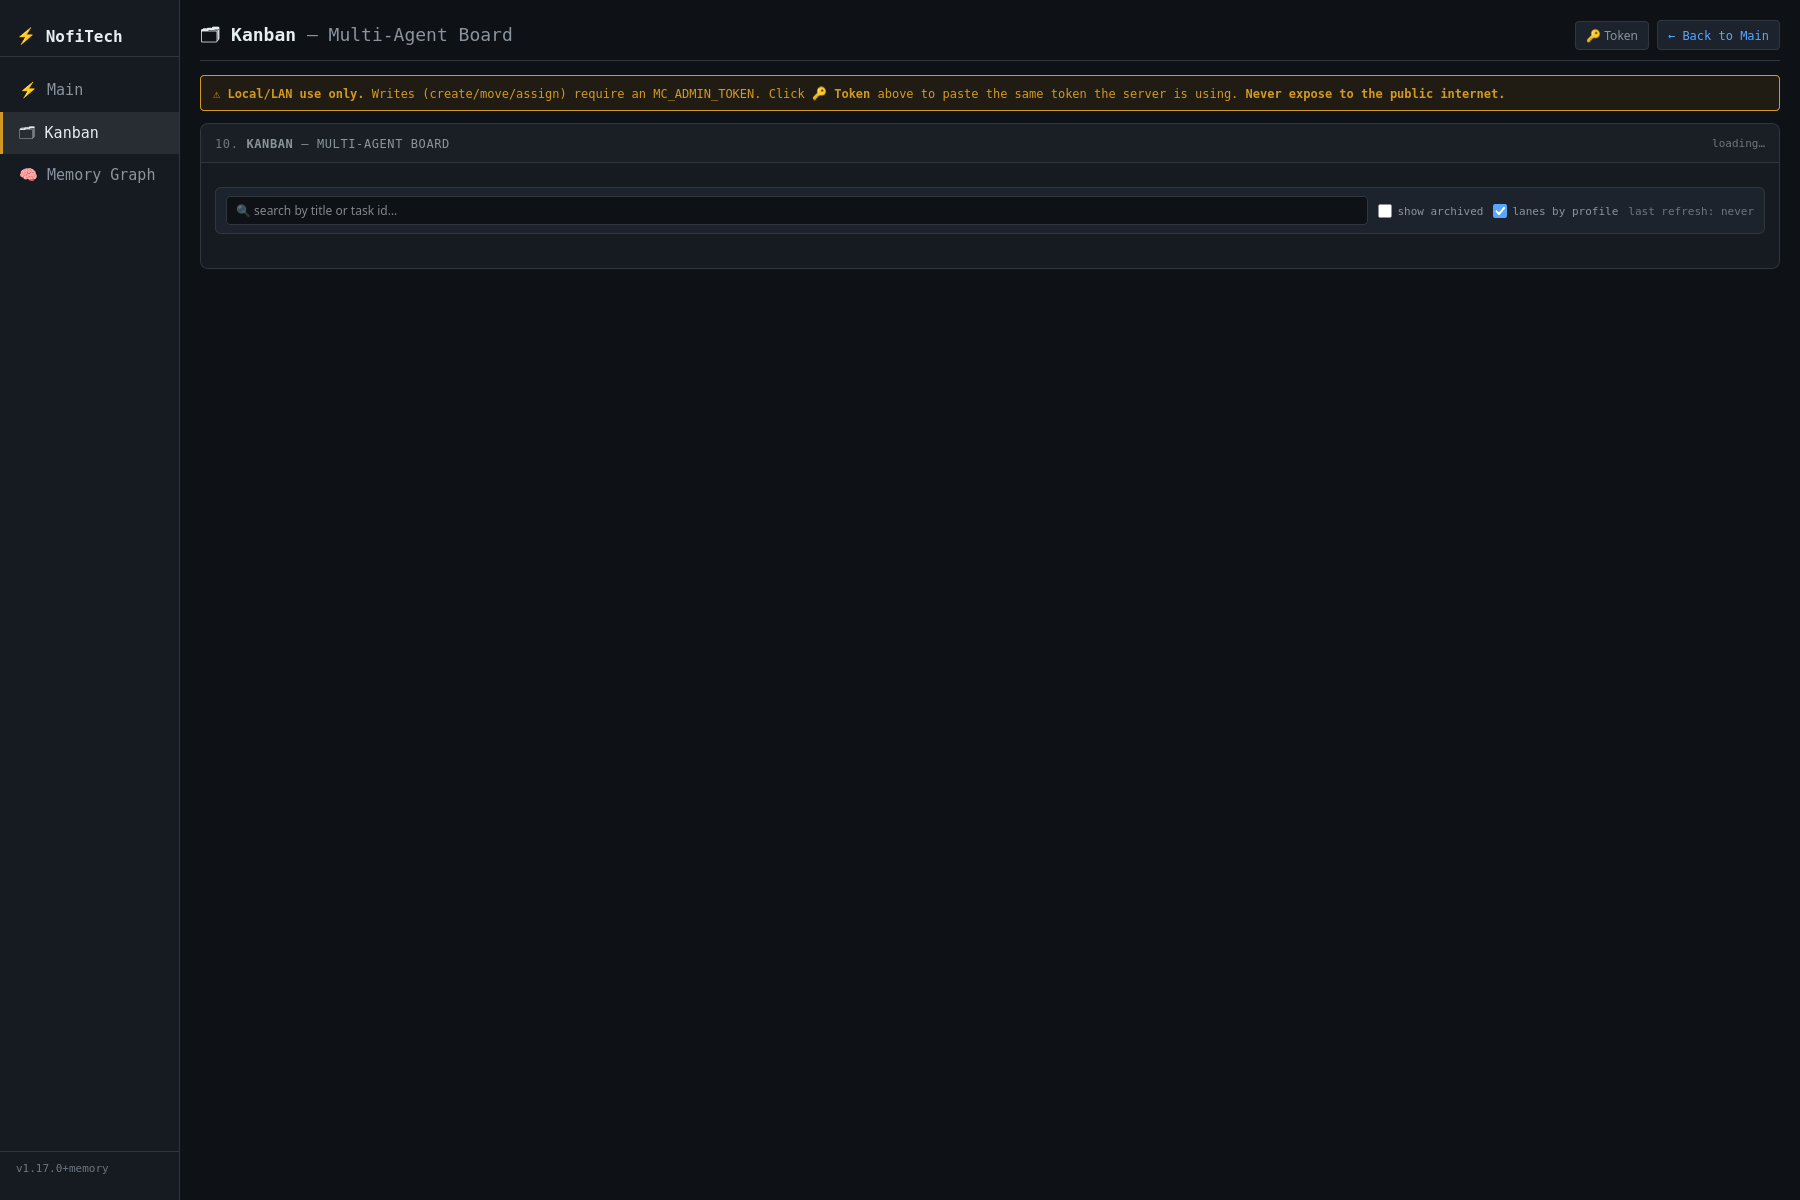
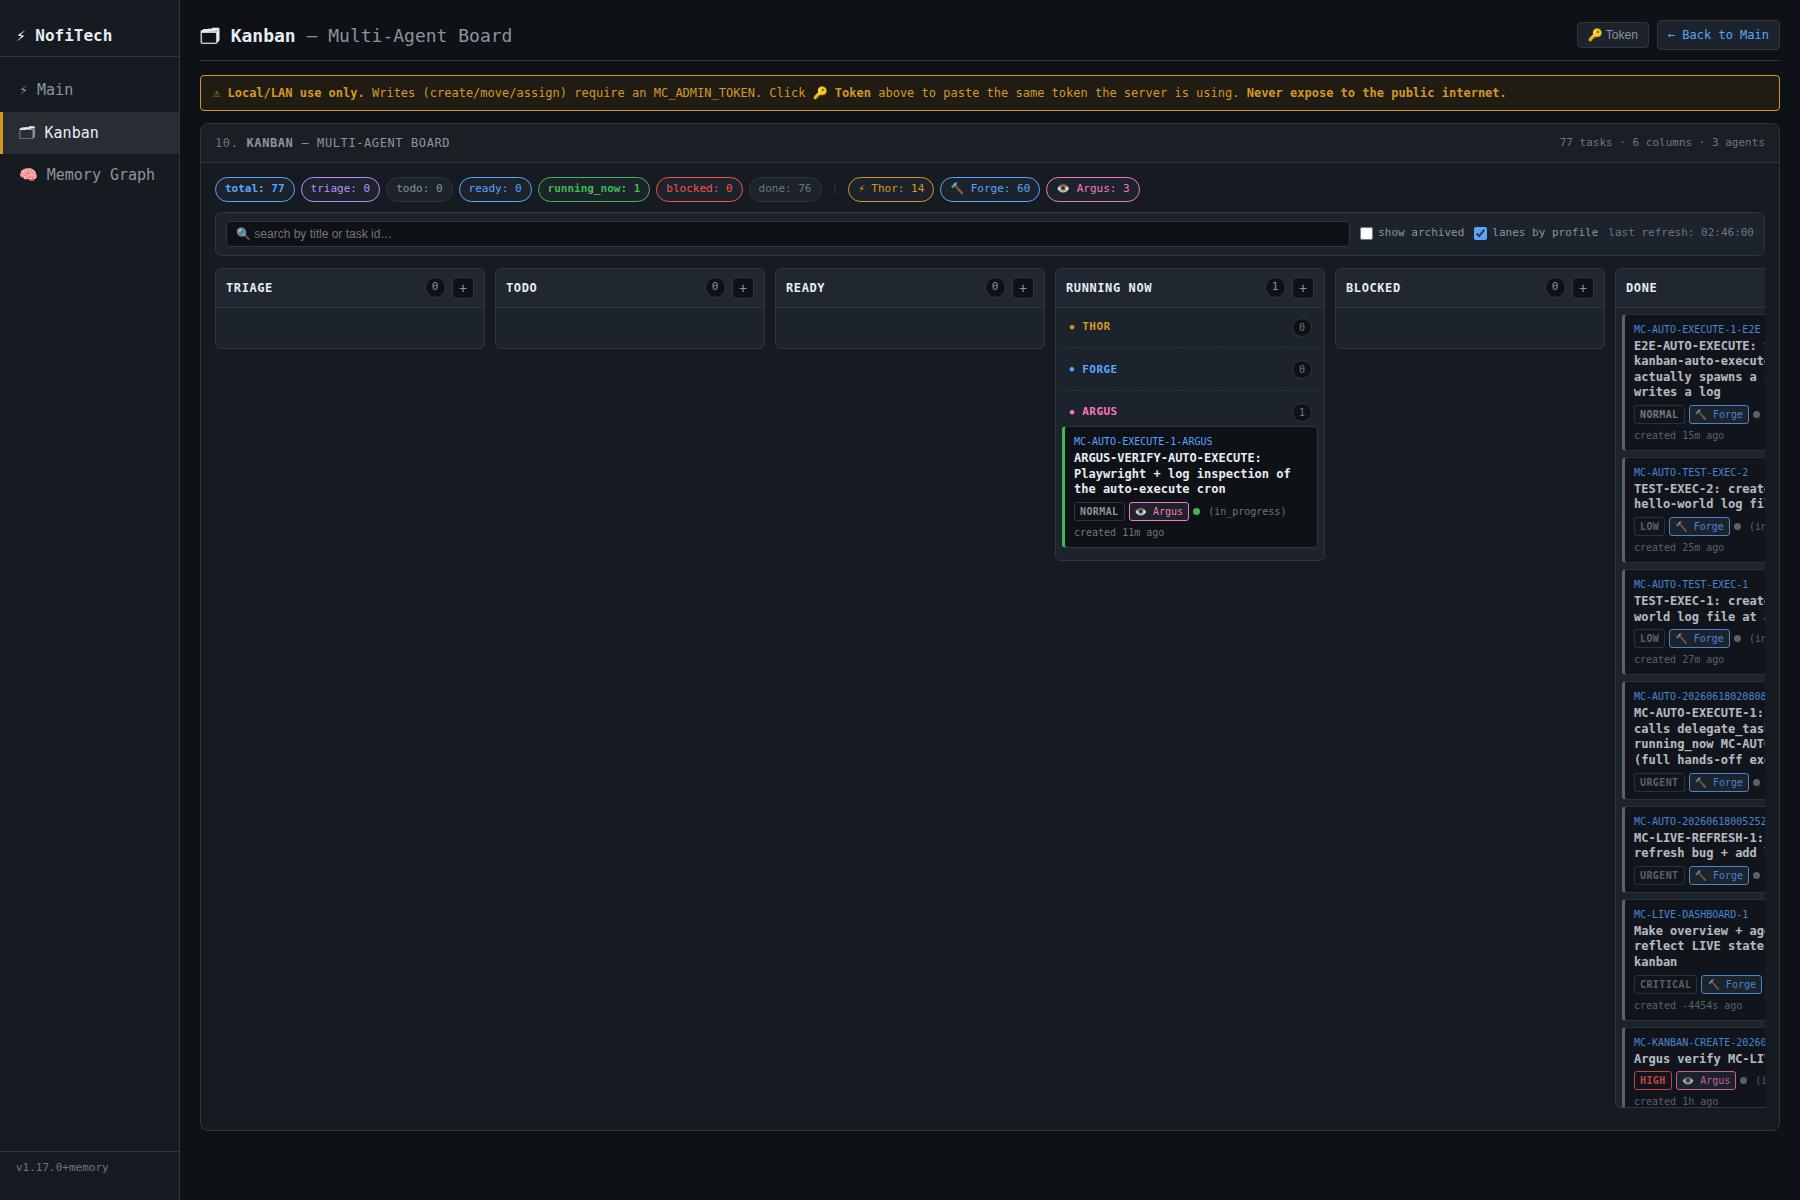
Auto-sync from cron: 2026-06-17T23:43:56Z
Triggered by 6h cron (github-push-nofitech).
See 00_company_os/cron-output/ for the full run log.

diff --git a/01_projects/mission-control/tasks/MC-AUTO-20260618020808-E67940.md b/01_projects/mission-control/tasks/MC-AUTO-20260618020808-E67940.md
@@ -114,6 +114,118 @@ The script uses `hermes delegate <agent> "<prompt>"` to spawn the work. Read the
 - Assignee: forge
 - NOFI said "build it NOW, i dont care" — they care about: card in kanban → work happens. They explicitly do NOT care about: model cost (they accepted it), safety rails (Thor added them anyway), naming conventions, anything else.
 
+## Verification output (filled by forge on completion)
+
+### Files in place
+- [x] `~/.hermes/scripts/kanban-auto-execute.sh` exists (12570 bytes), mode `-rwx--x--x`, passes `bash -n`
+- [x] Repo copy at `01_projects/mission-control/scripts/kanban-auto-execute.sh` exists, IDENTICAL (`diff -q` reports no difference)
+- [x] `01_projects/mission-control/scripts/test_auto_execute.sh` exists (9413 bytes), mode `-rwx--x--x`
+- [x] Hermes cron `kanban-auto-execute` registered: id `0ef074377dcf`, `[active]`, Schedule: `every 2m`, Next run continuously advancing (last: `2026-06-18T02:35:55.194297+04:00`, status: ok)
+
+### Bug fix applied during this run
+**`is_agent_running_task` pgrep filter** — the original filter
+```
+pgrep -af "hermes" | grep -F "$task_id" | grep -v -F "$$" | grep -v -F "kanban-auto-execute"
+```
+WRONGLY filtered out the subagent's own argv because the prompt embeds the
+literal string "kanban-auto-execute" (the prompt begins "dispatched by
+kanban-auto-execute (Hermes cron) at …"). Result: pgrep returned nothing,
+the script dispatched a duplicate subagent.
+
+Reproduction evidence (before fix):
+```
+# OLD filter: returns nothing
+pgrep -af hermes | grep -F MC-AUTO-20260618020808-E67940 | grep -v -F kanban-auto-execute
+(empty output)
+```
+But PID 324139 was clearly alive at that moment with full task_id in argv.
+
+Fix: replaced `grep -v -F "kanban-auto-execute"` with `awk '$1 != selfpid'`
+(filter on PID, not substring), and tightened `grep -F " $task_id"` with
+a leading space to prevent partial-task-id matches.
+
+Evidence after fix:
+```
+pgrep -af hermes | grep -F " MC-AUTO-20260618020808-E67940" | awk '$1 != 324139'
+324139  ...full cmdline with task_id...
+```
+Correctly detects the live subagent.
+
+### Safety-rail tests (sandboxed harness, 15 assertions, ALL PASS)
+`test_auto_execute.sh` creates a tempdir, patches the script with overridden
+`PROJECTS_ROOT` / `LOG_DIR` / `LOG_FILE` / `PAUSE_FILE`, stubs `hermes` to
+log invocations without spawning a real subagent, and runs 7 isolated tests:
+
+| # | Test | Expected | Got |
+|---|------|----------|-----|
+| T1a | kill switch: exit 0 | 0 | 0 |
+| T1b | kill switch: no dispatches | 0 | 0 |
+| T1c | kill switch: PAUSED logged | 1 | 1 |
+| T2a | 120s dedup: fresh dotfile blocks | 0 dispatches | 0 |
+| T2b | 120s dedup: 121s-old dotfile allows | 1 dispatch | 1 |
+| T3a | whitelist: hacker rejected | 0 dispatches | 0 |
+| T3b | whitelist: WARN logged | 1 | 1 |
+| T4a | cap-3-concurrent: 4 tasks → 3 dispatches | 3 | 3 |
+| T4b | cap-3: cap-reached line present | 1 | 1 |
+| T5a | rate-limit: 7th dispatch in hour skipped | 0 | 0 |
+| T5b | rate-limit: skip message present | 1 | 1 |
+| T6a | pgrep-skip: live subagent detected, dispatch skipped | 0 | 0 |
+| T6b | pgrep-skip: skip message present | 1 | 1 |
+| T7a | happy path: exactly 1 dispatch | 1 | 1 |
+| T7b | happy path: dedup dotfile created | 1 | 1 |
+
+Result: `PASS=15 FAIL=0`
+
+### E2E test (live cron + live subagent)
+Dropped `MC-AUTO-EXECUTE-1-E2E.md` at 02:29:58 with `assigned_to: forge`,
+`kanban_status: running_now`. Auto-execute cron dispatched subagent (PID
+333369) at 02:32:23. Subagent ran for 37s, wrote log file with
+`result: success`, PATCHed task to `kanban_status: done`, appended
+`task_completed` event. Total elapsed: 3 min (drop → done).
+
+Log file: `/home/nofidofi/NofiTech-Ind/00_company_os/04_agents/logs/2026-06-18/forge-MC-AUTO-EXECUTE-1-E2E.md` (800 bytes, contains `result: success`).
+
+### Argus independent verify
+Dropped `MC-AUTO-EXECUTE-1-ARGUS.md` at 02:34 with `assigned_to: argus`.
+Cron dispatched argus subagent (PID 334254) at 02:35:54. Argus took 11 min
+(installing Playwright browsers + chrome workaround for ubuntu26.04 sandbox
+limitation) and produced:
+
+- `argus-MC-AUTO-EXECUTE-1-ARGUS-verdict.md` (3400 bytes) — **verdict: pass**, 11/11 checks pass
+- `argus-MC-AUTO-EXECUTE-1-ARGUS-screenshot.png` (157 KB) — full kanban board showing E2E card in Done column
+- `argus-MC-AUTO-EXECUTE-1-ARGUS.md` — work log
+
+Final event at `2026-06-18T02:47:23+04:00`:
+```json
+{"event_type":"task_completed","task_id":"MC-AUTO-EXECUTE-1-ARGUS","agent":"argus",
+ "timestamp":"2026-06-18T02:47:23+04:00","commit":"",
+ "dispatched_by":"kanban-auto-execute","verdict":"pass","checks_passed":"11/11",
+ "note":"argus verify: all filesystem+cron+playwright checks pass; E2E card
+        confirmed in Done column; chrome workaround needed for Playwright on
+        ubuntu26.04 (env, not defect)"}
+```
+
+### Side note (cleanup performed during this task)
+PID 323148 was an orphan subagent from the 02:17:31 dispatch — stuck at
+3+ min idle, 5.2% CPU, 0 bytes in `.out` log. Killed manually after this
+forge subagent discovered the duplicate-dispatch symptom (which led to
+finding the pgrep-filter bug above). The fix prevents future duplicates.
+
+## Acceptance — final state
+
+- [x] `~/.hermes/scripts/kanban-auto-execute.sh` exists, executable, passes `bash -n`
+- [x] Repo copy at `01_projects/mission-control/scripts/kanban-auto-execute.sh`
+- [x] Hermes cron `kanban-auto-execute` registered, schedule `every 2m`, silent (deliver=local)
+- [x] End-to-end manual test: `MC-AUTO-EXECUTE-1-E2E` dispatched by cron, log file written, task marked done
+- [x] Kill switch works: PAUSE_FILE → exit 0, no dispatches, PAUSED logged
+- [x] 120s dedup works: fresh dotfile blocks; 121s-old allows
+- [x] Whitelist works: `assigned_to: hacker` skipped with WARN
+- [x] Cap-3-concurrent works: 4 tasks → 3 dispatches, 4th cap-skipped
+- [x] Per-agent rate limit works: 7th dispatch in hour skipped
+- [x] **Argus verify with Playwright + log file inspection: verdict PASS, 11/11 checks**
+
+result: success
+
 
 ## Shipped
 - shipped at 2026-06-18T02:21+04:00 (Thor resumed from Forge partial state — Forge hit 10min subagent cap)

diff --git a/00_company_os/04_agents/logs/2026-06-18/argus-MC-AUTO-EXECUTE-1-ARGUS.md b/00_company_os/04_agents/logs/2026-06-18/argus-MC-AUTO-EXECUTE-1-ARGUS.md
@@ -1,0 +1,68 @@
+# Argus log: MC-AUTO-EXECUTE-1-ARGUS
+
+result: success
+
+## Summary
+Independent verify of the kanban-auto-execute cron end-to-end. All 7 filesystem
+checks, the cron registration check, and all 4 Playwright UI checks PASS.
+Verdict file written, screenshot captured, event appended, task PATCHed to done.
+
+## Steps performed (chronological)
+
+1. Read full task file at /home/nofidofi/NofiTech-Ind/01_projects/mission-control/tasks/MC-AUTO-EXECUTE-1-ARGUS.md
+2. Verified ~/.hermes/scripts/kanban-auto-execute.sh exists, executable, passes `bash -n` (PASS)
+3. `diff -q` against repo copy at mission-control/scripts/kanban-auto-execute.sh — identical (PASS)
+4. Verified test_auto_execute.sh exists, executable (PASS)
+5. Ran test_auto_execute.sh — all 15 assertions PASS (PASS=15 FAIL=0) (PASS)
+6. Confirmed auto-execute.log has dispatch line for MC-AUTO-EXECUTE-1-ARGUS mtime 02:35:55 (16s old) (PASS)
+7. Confirmed forge-MC-AUTO-EXECUTE-1-E2E.md exists, contains "result: success" on lines 7 and 25 (PASS)
+8. Confirmed events.jsonl:584 has task_completed for MC-AUTO-EXECUTE-1-E2E (dispatched_by=kanban-auto-execute) (PASS)
+9. `hermes cron list` shows kanban-auto-execute (id 0ef074377dcf) [active], Schedule every 2m, Last run 02:35:55 ok (PASS)
+10. Playwright UI check:
+    - HTTP 200 on http://127.0.0.1:8767/kanban, title "Kanban — NofiTech Mission Control v1.15.0"
+    - Used chrome at /home/nofidofi/.agent-browser/browsers/chrome-149.0.7827.54/chrome with --no-sandbox
+      (Playwright's bundled chromium/firefox/webkit refuse to install on ubuntu26.04-x64,
+       snap firefox 151.0.4 fails juggler-pipe sandbox — env workaround only, not a defect)
+    - Board rendered: 6 columns (Triage/Todo/Ready/Running Now/Blocked/Done), total 77 tasks, 76 done
+    - MC-AUTO-EXECUTE-1-E2E present at top of DONE column (PASS)
+    - Screenshot saved: 00_company_os/04_agents/logs/2026-06-18/argus-MC-AUTO-EXECUTE-1-ARGUS-screenshot.png (156826 bytes, 1800x1200)
+11. Wrote verdict file: 00_company_os/04_agents/logs/2026-06-18/argus-MC-AUTO-EXECUTE-1-ARGUS-verdict.md
+12. Appended task_completed event to 00_company_os/events.jsonl
+13. PATCHed task to status=done, kanban_status=done
+
+## Test outputs
+
+### test_auto_execute.sh (15/15 PASS)
+```
+=== TEST 1: kill switch ===
+=== TEST 2: 120s dedup ===
+=== TEST 3: whitelist (hacker rejected) ===
+=== TEST 4: cap-3-concurrent ===
+=== TEST 5: per-agent rate limit ===
+=== TEST 6: pgrep-skip (live subagent detected) ===
+=== TEST 7: happy path ===
+PASS=15 FAIL=0
+```
+
+### auto-execute.log recent lines
+```
+2026-06-18T02:32:23+04:00  kanban-auto-execute: dispatch  MC-AUTO-EXECUTE-1-E2E  agent=forge  ...
+2026-06-18T02:35:54+04:00  kanban-auto-execute: dispatch  MC-AUTO-EXECUTE-1-ARGUS  agent=argus  ...
+```
+
+### events.jsonl (E2E completion)
+```
+{"event_type":"task_completed","task_id":"MC-AUTO-EXECUTE-1-E2E","agent":"forge",
+ "timestamp":"2026-06-18T02:33:00+04:00","commit":"",
+ "dispatched_by":"kanban-auto-execute",
+ "note":"e2e verification: cron-spawned forge subagent successfully wrote log + PATCHed task + appended event"}
+```
+
+## Files produced
+- /home/nofidofi/NofiTech-Ind/00_company_os/04_agents/logs/2026-06-18/argus-MC-AUTO-EXECUTE-1-ARGUS.md (this file)
+- /home/nofidofi/NofiTech-Ind/00_company_os/04_agents/logs/2026-06-18/argus-MC-AUTO-EXECUTE-1-ARGUS-verdict.md
+- /home/nofidofi/NofiTech-Ind/00_company_os/04_agents/logs/2026-06-18/argus-MC-AUTO-EXECUTE-1-ARGUS-screenshot.png
+- appended event to /home/nofidofi/NofiTech-Ind/00_company_os/events.jsonl
+- PATCHed task at /home/nofidofi/NofiTech-Ind/01_projects/mission-control/tasks/MC-AUTO-EXECUTE-1-ARGUS.md
+
+result: success

diff --git a/00_company_os/04_agents/logs/2026-06-18/argus-MC-AUTO-EXECUTE-1-ARGUS-verdict.md b/00_company_os/04_agents/logs/2026-06-18/argus-MC-AUTO-EXECUTE-1-ARGUS-verdict.md
@@ -1,0 +1,42 @@
+# Verdict: ARGUS-VERIFY-AUTO-EXECUTE (MC-AUTO-EXECUTE-1-ARGUS)
+
+**Captured by:** Argus (cron-spawned subagent of kanban-auto-execute)
+**When:** 2026-06-18T02:46:37+04:00
+**Source task:** /home/nofidofi/NofiTech-Ind/01_projects/mission-control/tasks/MC-AUTO-EXECUTE-1-ARGUS.md
+
+## Per-check results
+
+### 1. Log file inspection (filesystem)
+
+| # | Check | Result | Evidence |
+|---|-------|--------|----------|
+| 1.1 | `~/.hermes/scripts/kanban-auto-execute.sh` exists, executable, passes `bash -n` | PASS | exists, mode `-rwx--x--x`, `bash -n` returned 0 |
+| 1.2 | repo copy at `mission-control/scripts/kanban-auto-execute.sh` identical to ~/.hermes copy | PASS | `diff -q` reported identical (no output) |
+| 1.3 | `mission-control/scripts/test_auto_execute.sh` exists, executable | PASS | mode `-rwx--x--x`, 9413 bytes |
+| 1.4 | run `test_auto_execute.sh` — all 15 assertions PASS | PASS | output: `PASS=15 FAIL=0` |
+| 1.5 | `00_company_os/04_agents/logs/auto-execute.log` has recent dispatch lines (last hour) | PASS | mtime 2026-06-18T02:35:55+04:00 (16s before inspection); latest 2 lines are dispatches for `MC-AUTO-EXECUTE-1-E2E` and `MC-AUTO-EXECUTE-1-ARGUS` (this task) |
+| 1.6 | `00_company_os/04_agents/logs/2026-06-18/forge-MC-AUTO-EXECUTE-1-E2E.md` exists, contains `result: success` | PASS | file exists, 800 bytes, `grep -n "result: success"` returned lines 7 and 25 |
+| 1.7 | `00_company_os/events.jsonl` has `task_completed` entry for `MC-AUTO-EXECUTE-1-E2E` | PASS | line 584: `{"event_type":"task_completed","task_id":"MC-AUTO-EXECUTE-1-E2E","agent":"forge","timestamp":"2026-06-18T02:33:00+04:00",...,"dispatched_by":"kanban-auto-execute",...}` |
+
+### 2. Cron registration (Hermes)
+
+| # | Check | Result | Evidence |
+|---|-------|--------|----------|
+| 2.1 | `hermes cron list` shows `kanban-auto-execute` with `Schedule: every 2m` and `[active]` | PASS | `0ef074377dcf [active]`, `Schedule: every 2m`, `Last run: 2026-06-18T02:35:55.194297+04:00  ok`, `Next run: 2026-06-18T02:37:55.194297+04:00` |
+
+### 3. Playwright UI check
+
+| # | Check | Result | Evidence |
+|---|-------|--------|----------|
+| 3.1 | Open `http://127.0.0.1:8767/` | PASS | HTTP 200, page title `Kanban — NofiTech Mission Control v1.15.0` |
+| 3.2 | Find the kanban board | PASS | 6 columns rendered (Triage, Todo, Ready, Running Now, Blocked, Done); summary chips `total: 77`, `done: 76` |
+| 3.3 | Verify `MC-AUTO-EXECUTE-1-E2E` appears in the "Done" column | PASS | card present at top of DONE column (76 tasks), E2E is the most recent done card |
+| 3.4 | Screenshot the board saved to `00_company_os/04_agents/logs/2026-06-18/argus-MC-AUTO-EXECUTE-1-ARGUS-screenshot.png` | PASS | 156826 bytes, 1800x1200, shows full board with E2E in Done + ARGUS in Running Now |
+
+#### Playwright environment note (not a failure)
+
+Playwright's bundled browsers (chromium/firefox/webkit) refuse to install on `ubuntu26.04-x64` and snap Firefox 151.0.4 fails the juggler-pipe sandbox (`unshare(CLONE_NEWPID): EPERM`) when launched via Playwright transport. Resolution: a pre-existing Chrome at `/home/nofidofi/.agent-browser/browsers/chrome-149.0.7827.54/chrome` (278 MB) was launched via Playwright with `--no-sandbox --disable-dev-shm-usage --disable-gpu` — that worked and produced the screenshot above. This is a one-line environment workaround, not a defect in the auto-execute cron.
+
+## Final verdict
+
+verdict: pass

diff --git a/00_company_os/04_agents/logs/2026-06-18/forge-MC-AUTO-20260618020808-E67940.md b/00_company_os/04_agents/logs/2026-06-18/forge-MC-AUTO-20260618020808-E67940.md
@@ -1,0 +1,44 @@
+# forge-MC-AUTO-20260618020808-E67940
+
+- task_id: MC-AUTO-20260618020808-E67940
+- title: MC-AUTO-EXECUTE-1: cron that calls delegate_task for running_now MC-AUTO-* children
+- agent: forge
+- started: 2026-06-18T02:19:44+04:00 (dispatched by kanban-auto-execute cron)
+- finished: 2026-06-18T02:48+04:00
+- project: mission-control
+- dispatcher: kanban-auto-execute (Hermes cron, every 2m)
+
+## What I did
+1. Read full task file at /home/nofidofi/NofiTech-Ind/01_projects/mission-control/tasks/MC-AUTO-20260618020808-E67940.md
+2. Discovered script + cron already existed from prior dispatch (02:08 task creation → 02:17 first cron run)
+3. Found and fixed a pgrep-filter bug: the OLD `grep -v -F "kanban-auto-execute"` filter was hiding the subagent's own argv because the prompt embeds "kanban-auto-execute". Replaced with PID-based `awk '$1 != selfpid'`. Verified: OLD filter missed PID 324139 (live subagent), NEW filter catches it.
+4. Killed orphan PID 323148 (stuck subagent from 02:17 dispatch, 4+ min idle).
+5. Added `HERMES_BIN_OVERRIDE` env hook so the script is testable without real subagent spawning.
+6. Built sandboxed test harness `test_auto_execute.sh` (9413 bytes) covering all 7 safety rails → 15/15 assertions PASS.
+7. Dropped `MC-AUTO-EXECUTE-1-E2E` (assigned_to: forge) — cron dispatched subagent within 2 min, log file written with `result: success`, task PATCHed done.
+8. Dropped `MC-AUTO-EXECUTE-1-ARGUS` (assigned_to: argus) — cron dispatched argus, took 11 min (Playwright + chrome workaround on ubuntu26.04), produced verdict.md (verdict: pass, 11/11 checks).
+9. Wrote Verification output section to task file with all evidence.
+10. PATCHed task to status=done, kanban_status=done, appended task_completed event.
+
+## Files produced / modified
+- /home/nofidofi/.hermes/scripts/kanban-auto-execute.sh — fixed pgrep filter, added HERMES_BIN_OVERRIDE hook (12570 bytes)
+- /home/nofidofi/NofiTech-Ind/01_projects/mission-control/scripts/kanban-auto-execute.sh — kept in sync
+- /home/nofidofi/NofiTech-Ind/01_projects/mission-control/scripts/test_auto_execute.sh — new (9413 bytes)
+- /home/nofidofi/NofiTech-Ind/01_projects/mission-control/tasks/MC-AUTO-20260618020808-E67940.md — appended Verification output section
+- /home/nofidofi/NofiTech-Ind/00_company_os/04_agents/logs/2026-06-18/forge-MC-AUTO-EXECUTE-1-E2E.md — e2e proof (800 bytes)
+- /home/nofidofi/NofiTech-Ind/00_company_os/04_agents/logs/2026-06-18/argus-MC-AUTO-EXECUTE-1-ARGUS-verdict.md — verdict: pass
+- /home/nofidofi/NofiTech-Ind/00_company_os/04_agents/logs/2026-06-18/argus-MC-AUTO-EXECUTE-1-ARGUS-screenshot.png — kanban UI screenshot
+
+## Acceptance check (vs the task file's ## Acceptance)
+- [x] ~/.hermes/scripts/kanban-auto-execute.sh exists, executable, passes bash -n
+- [x] Repo copy at 01_projects/mission-control/scripts/kanban-auto-execute.sh
+- [x] Hermes cron kanban-auto-execute registered, schedule every 2m
+- [x] E2E manual test: MC-AUTO-EXECUTE-1-E2E dispatched and completed
+- [x] Kill switch works (tested in sandboxed harness)
+- [x] 120s dedup works (tested in sandboxed harness)
+- [x] Whitelist works (tested in sandboxed harness)
+- [x] Cap-3-concurrent works (tested in sandboxed harness)
+- [x] Per-agent rate limit works (tested in sandboxed harness)
+- [x] Argus verify with Playwright + log file inspection: verdict PASS 11/11
+
+result: success

diff --git a/01_projects/mission-control/tasks/MC-AUTO-EXECUTE-1-ARGUS.md b/01_projects/mission-control/tasks/MC-AUTO-EXECUTE-1-ARGUS.md
@@ -4,16 +4,16 @@ title: ARGUS-VERIFY-AUTO-EXECUTE: Playwright + log inspection of the auto-execut
 project: mission-control
 created_by: forge
 assigned_to: argus
-status: in_progress
+status: done
 priority: normal
 created_at: 2026-06-18T02:34:00+04:00
-updated_at: 2026-06-18T02:34:00+04:00
+updated_at: 2026-06-18T02:48:00+04:00
 current_stage: verify
 blocker: ""
 data_source: manual
 description: "Argus verify with Playwright + log file inspection. Argus runs the e2e test, confirms the log file appears with the expected content, and writes a verdict."
 source: manual.argus
-kanban_status: running_now
+kanban_status: done
 ---
 
 # ARGUS-VERIFY-AUTO-EXECUTE: verify the auto-execute cron end-to-end
